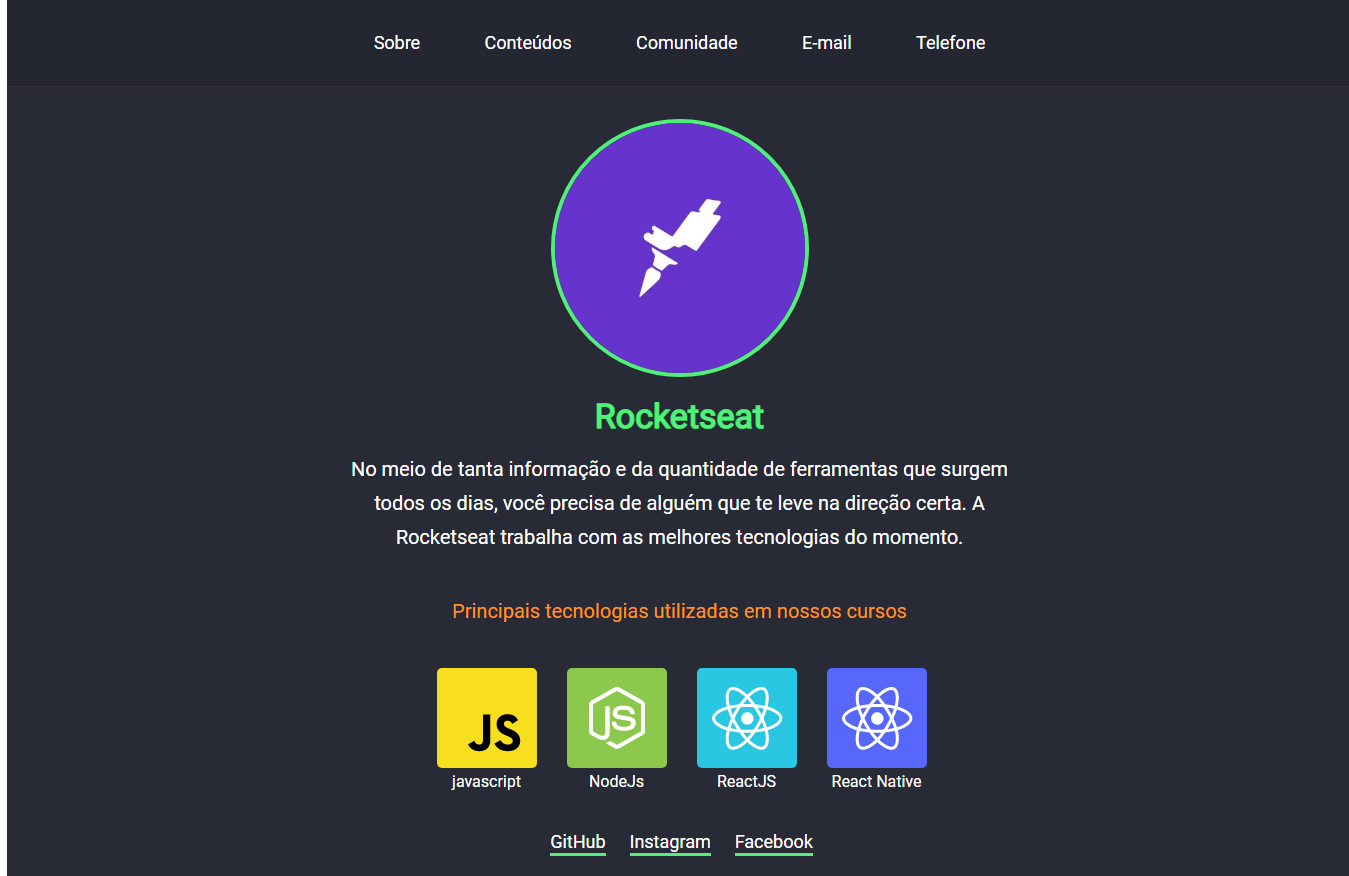
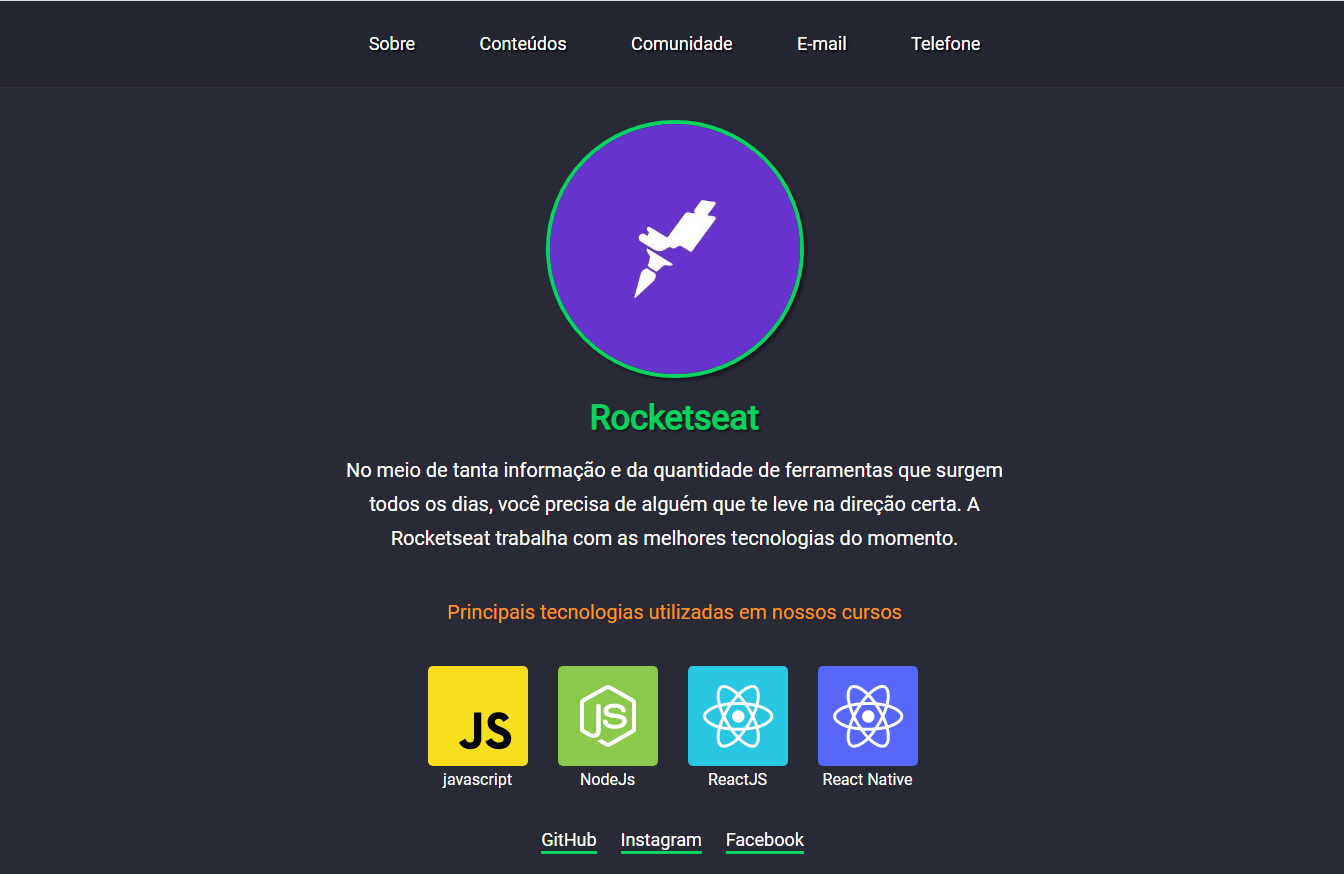
finalizei o modal

diff --git a/challenge02/styles/content.css b/challenge02/styles/content.css
@@ -1,3 +1,5 @@
+@import "https://fonts.googleapis.com/icon?family=Material+Icons";
+
 .cards {
     margin: 32px;
     display: grid;
@@ -12,25 +14,27 @@
     padding: 64px;
     border-radius: 8px;
     border: 2px solid rgb(11, 10, 13);
-    height: 75vh;
+    height: 75vh;    
+    cursor: pointer;
+    box-shadow: 3px 3px 3px rgba(0, 0, 0, 0.5);
 }
 
 #starter:hover {
-    cursor: pointer;
     border: 2px solid var(--purple-color);
     box-shadow: 6px 6px 6px rgba(0, 0, 0, 0.5);
+    margin-top: -10px;
 }
 
 #launchbase:hover {
-    cursor: pointer;
     border: 2px solid var(--orange-color);
     box-shadow: 6px 6px 6px rgba(0, 0, 0, 0.5);
+    margin-top: -10px;
 }
 
-#goStack:hover {
-    cursor: pointer;
+#gostack:hover {
     border: 2px solid var(--green-color);
     box-shadow: 6px 6px 6px rgba(0, 0, 0, 0.5);
+    margin-top: -10px;
 }
 
 .card .card_numbers {
@@ -53,11 +57,10 @@
 .card #card_number_03 {    
     color: var(--green-color);
     border: 2px solid var(--green-color);
-
 }
 
 .card .card_image {
-    margin: 65px auto 45px;
+    margin: 65px auto 45px; 
 }
 
 .card .card_content {
@@ -97,18 +100,16 @@
 .card #price_starter {
     color: var(--purple-color);
     text-decoration: none;
-}
-
-.card #price_starter:hover {
-    color: white;
     border: 2px solid var(--purple-color);
+    box-shadow: 3px 3px 3px rgba(0, 0, 0, 0.5);
+    color: white;
 }
 
 .card #price_launchbase {
     color: var(--orange-color);
 }
 
-.card #price_goStack{
+.card #price_gostack{
     color: var(--green-color);
 }
 
@@ -117,40 +118,74 @@
     margin-top: 35px;
     padding: 15px;
     border-radius: 4px;
+    box-shadow: 5px 5px 5px rgba(0, 0, 0, 0.5);
 }
 
 .card #orange_info {    
     background: var(--orange-color);
 }
 
-.card #orange_info:hover {
-    background-color: rgba(0, 0, 0, 0.1);
-    border: 2px solid var(--orange-color);
-}
-
-.card #orange_info a:hover {
-    color: white;
-}
-
 .card #green_info {    
     background: var(--green-color);
 }
 
-.card #green_info:hover {
-    background-color: rgba(0, 0, 0, 0.1);
-    border: 2px solid var(--green-color);
-}
-
-.card .card_info a {
+.card .card_info p {
     text-decoration: none;
     color: black;
 }
 
-
-.card #green_info a:hover {
-    color: white;
-}
-
 .card .card_info span {
     font-weight: bold;
+}
+
+.modal_overlay {
+    width: 100%;
+    height: 100%;
+    background-color: rgba(0, 0, 0, 0.7);
+    position: fixed;
+    top: 0;
+    opacity: 0;
+    visibility: hidden;
+}
+
+.modal_overlay.active {
+    opacity: 1;
+    visibility: visible;
+}
+
+.modal_overlay .modal {
+    background-color: white;
+    width: 70%;
+    height: 70%;
+    margin: 15vh auto;
+    position: relative;
+}
+
+.modal.maximize{
+    width: 100%;
+    height: 100%;
+    margin: 1vh auto;
+}
+
+.modal #close-modal {
+    right: 8px;
+    color: black;
+    position: absolute;    
+    top: 8px;
+    cursor: pointer;
+}
+
+.modal #max-modal {
+    right: 40px;
+    color: black;
+    position: absolute;    
+    top: 8px;
+    cursor: pointer;
+}
+
+iframe{
+    width: 100%;
+    height: 90%; 
+    position: absolute;
+    top: 8%;
 }

diff --git a/challenge02/views/content.html b/challenge02/views/content.html
@@ -35,7 +35,7 @@
 
             <div class="card-modules">
                 <p>05 módulos</p>
-                <a href="" class="card-price" id="price_starter">Free</a>
+                <p class="card-price" id="price_starter">Free</p>
             </div>
         </div>
 
@@ -56,12 +56,12 @@
             </div>
 
             <div class="card_info" id="orange_info">
-                <a href=""><span>Garanta sua vaga</span> para a próxima turma!</a>
+                <p><span>Garanta sua vaga</span> para a próxima turma!</p>
             </div>
             
         </div>
 
-        <div class="card" id="goStack"> 
+        <div class="card" id="gostack"> 
             <span class="card_numbers" id="card_number_03">03</span> 
 
             <div class="card_image">
@@ -74,14 +74,31 @@
 
             <div class="card-modules">
                 <p>06 módulos</p>
-                <p class="card-price" id="price_goStack">R$ 2.900,00</p>
+                <p class="card-price" id="price_gostack">R$ 2.900,00</p>
             </div>
 
             <div class="card_info" id="green_info">
-                <a href=""><span>Garanta sua vaga</span> para a próxima turma!</a>
+                <p><span>Garanta sua vaga</span> para a próxima turma!</p>
             </div>
         </div>
-
     </section>
+
+    <div class="modal_overlay">
+       <div class="modal" class="maximize">
+            <a id="max-modal">
+               <i class="material-icons">check_box_outline_blank</i>
+            </a>
+
+            <a id="close-modal">
+                <i class="material-icons">close</i>
+            </a>
+
+            <div class="modal-content">
+                <iframe src="" frameborder="0"></iframe>
+            </div>
+        </div>
+    </div>
+
+    <script src="../scripts/content.js"></script>
 </body>
 </html>

diff --git a/challenge02/scripts/content.js b/challenge02/scripts/content.js
@@ -1,0 +1,28 @@
+const modalOverlay = document.querySelector('.modal_overlay')
+const cards = document.querySelectorAll('.card')
+const modal = document.querySelector('.modal')
+
+for (let card of cards) {
+    card.addEventListener("click", function () {
+        const course = card.getAttribute('id')
+        modalOverlay.classList.add("active")
+        modalOverlay.querySelector('iframe').src = `https://rocketseat.com.br/${course}` 
+    })
+}
+
+document.querySelector('#close-modal').addEventListener("click", function () {
+        modalOverlay.classList.remove("active")
+        modal.classList.remove("maximize")
+        modalOverlay.querySelector('iframe').src = ""
+})
+
+document.querySelector('#max-modal').addEventListener('click', function () {
+   
+    if(!modal.classList.contains('maximize')){
+        modal.classList.add("maximize")
+    } else {
+        modal.classList.remove("maximize")
+    }
+
+
+})

diff --git a/challenge02/index.html b/challenge02/index.html
@@ -13,9 +13,9 @@
         <nav class="links">                
             <a href="index.html"> Sobre </a>
             <a href="views/content.html"> Conteúdos </a>
-            <a href="https://discordapp.com/invite/gCRAFhc"> Comunidade </a>
-            <a href="mailto:ruthmariia01@gmail.com"> E-mail </a>
-            <a href="tel:+5547992078767"> Telefone </a>
+            <a href="https://discordapp.com/invite/gCRAFhc" target="_blank"> Comunidade </a>
+            <a href="mailto:ruthmariia01@gmail.com" target="_blank"> E-mail </a>
+            <a href="tel:+5547992078767" target="_blank"> Telefone </a>
         </nav>
     </header>
      

diff --git a/challenge02/styles/index.css b/challenge02/styles/index.css
@@ -19,9 +19,10 @@ body {
 }
 
 header {
-    padding: 32px;
+    padding: 32px;/*32*/
     border-bottom: 1px solid #333;
     background: rgba(0, 0, 0, 0.1);
+    text-shadow: 2px 2px 2px rgba(0, 0, 0, 0.8);
 }
 
 .links {
@@ -49,12 +50,15 @@ header {
     border-radius: 50%;
     height: 250px;
     border: 4px solid var(--green-color);
+    box-shadow: 3px 3px 3px rgba(0, 0, 0, 0.4);
 }
 
 #wrapper h1 {
     margin: 15px;
     font-size: 34px;
     color: var(--green-color);
+    text-shadow: 2px 2px 2px rgba(0, 0, 0, 0.5);
+
 }
 
 #wrapper p {

diff --git a/README.md b/README.md
@@ -6,7 +6,6 @@
   <a href="#about">Sobre</a>&nbsp;&nbsp;&nbsp;|&nbsp;&nbsp;&nbsp;
   <a href="#semana01">Semana 01</a>&nbsp;&nbsp;&nbsp;|&nbsp;&nbsp;&nbsp;
   <a href="#semana02">Semana 02</a>&nbsp;&nbsp;&nbsp;|&nbsp;&nbsp;&nbsp;
-  <a href="#site">Site</a>&nbsp;&nbsp;&nbsp;|&nbsp;&nbsp;&nbsp;
   <a href="#licença">Licença</a>
 </p>
 
@@ -69,20 +68,25 @@ O [desafio 01](https://github.com/RuthMaria/launchBase2.0/tree/master/challenge0
 
 Abordou os principais elementos do [HTML](https://github.com/Rocketseat/bootcamp-launchbase-desafios-02/blob/master/materiais/html.pdf) e as principais propriedades de estilização [CSS](https://github.com/Rocketseat/bootcamp-launchbase-desafios-02/blob/master/materiais/css.pdf). 
 
-O [desafio 02](https://github.com/RuthMaria/launchBase2.0/tree/master/challenge02) consistia em 4 partes, onde eram propostos desafios.
+O [desafio 02](https://github.com/RuthMaria/launchBase2.0/tree/master/challenge02) consistia em 4 partes, onde era proposto desafios. As partes 1, 2 e 3 eram pra criar uma página de apresentação da Rocketseat, onde o layout era livre e o aluno poderia exercitar a sua criatividade, apenas tinha que seguir algumas instruções. 
+Já a parte 4 era dado um layout pronto do Foodfy para ser seguido a risca.
 
 - [Parte 1](https://github.com/Rocketseat/bootcamp-launchbase-desafios-02/blob/master/desafios/02-1-primeiro-html.md), criação do menu.
 - [Parte 2](https://github.com/Rocketseat/bootcamp-launchbase-desafios-02/blob/master/desafios/02-2-pagina-descricao.md), página de descrição da Rocketseat.
-- [Parte 3](https://github.com/Rocketseat/bootcamp-launchbase-desafios-02/blob/master/desafios/02-3-pagina-cursos-e-iframe.md), página de cursos e iframes
-- [Parte 4]()
+- [Parte 3](https://github.com/Rocketseat/bootcamp-launchbase-desafios-02/blob/master/desafios/02-3-pagina-cursos-e-iframe.md), página de cursos da rocketseat e iframes
 
 <br>
 
-#### Resultado do desafio 02
+#### Resultado
 
 ![Página sobre rocketseat](https://github.com/RuthMaria/launchBase2.0/blob/master/git/about-rocketseat.png) <br>
 ![Página conteúdo](https://github.com/RuthMaria/launchBase2.0/blob/master/git/content-rocketseat.png) <br>
 ![modal](https://github.com/RuthMaria/launchBase2.0/blob/master/git/modal-rocketseat.png) <br>
+![Video executando](https://github.com/RuthMaria/launchBase2.0/blob/master/git/video.gif)
+
+- [Parte 4](https://github.com/Rocketseat/bootcamp-launchbase-desafios-02/blob/master/desafios/02-foodfy.md), construir o Foodfy<br>
+
+#### Resultado
 
 ### Iniciando com back-end
 
